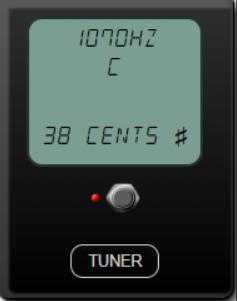
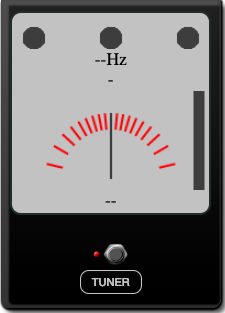
modifying style

diff --git a/jordan-SINTES/tuner_machine/tuner/main.html b/jordan-SINTES/tuner_machine/tuner/main.html
@@ -100,7 +100,7 @@
             align-items: center;
             flex: 1;
             margin: 3px;
-            margin-top: 25px;
+            margin-top: 5px;
             border-radius: 5px;
         }
 
@@ -120,7 +120,7 @@
 
         #detector {
             width: 180px;
-            height: 180px;
+            height: 210px;
             border: 1.5px solid rgb(35, 53, 49);
             border-radius: 10px;
             text-align: center;
@@ -166,6 +166,10 @@
             height: 60px;
             width: 7px;
             margin: initial;
+        }
+
+        #detune{
+            margin-bottom: 5px;
         }
 
     </style>
@@ -225,11 +229,11 @@
             this.boundingRect = {
                 dataWidth: {
                     type: Number,
-                    value: 150
+                    value: 200
                 },
                 dataHeight: {
                     type: Number,
-                    value: 190
+                    value: 280
                 }
             };
             return this.boundingRect;
